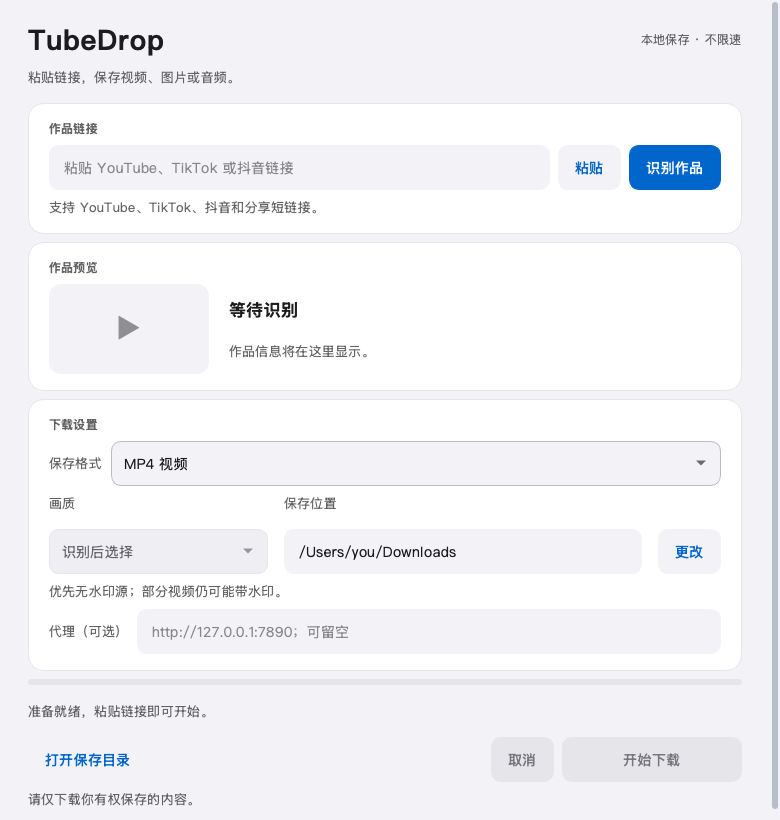
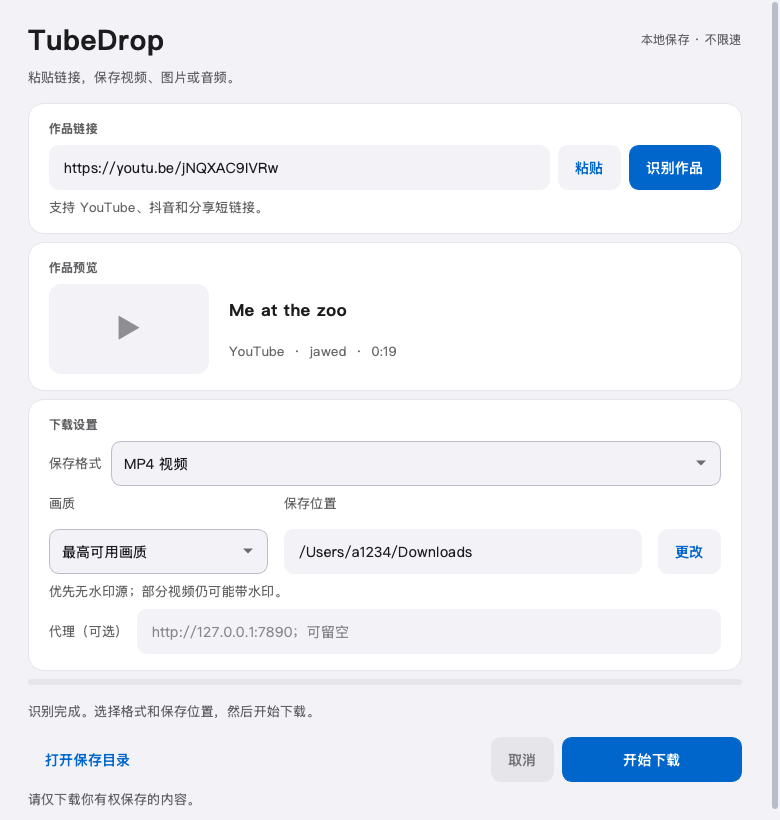
feat!: remove TikTok downloads and keep YouTube and Douyin

diff --git a/core.py b/core.py
@@ -9,16 +9,13 @@ from urllib.parse import parse_qs, urlsplit
 
 VIDEO_ID = re.compile(r'^[A-Za-z0-9_-]{11}$')
 HOSTS = {'youtube.com', 'www.youtube.com', 'm.youtube.com', 'music.youtube.com'}
-TIKTOK_HOSTS = {'tiktok.com', 'www.tiktok.com', 'm.tiktok.com'}
-TIKTOK_SHORT_HOSTS = {'vm.tiktok.com', 'vt.tiktok.com'}
-TIKTOK_VIDEO = re.compile(r'/@(?P<user>[A-Za-z0-9_.-]*)/video/(?P<id>[0-9]{10,25})')
 DOUYIN_HOSTS = {'douyin.com', 'www.douyin.com', 'iesdouyin.com', 'www.iesdouyin.com'}
 
 
 def normalize_url(raw: str) -> str:
     raw = raw.strip()
     if not raw or len(raw) > 4096 or any(ord(c) < 32 and c not in '\r\n\t' for c in raw):
-        raise ValueError('请粘贴有效的 YouTube、TikTok 或抖音作品链接。')
+        raise ValueError('请粘贴有效的 YouTube 或抖音作品链接。')
     if any(c.isspace() for c in raw):
         # 抖音复制的分享文案常带标题；只接受其中唯一的一条链接。
         links = re.findall(r'https?://[^\s<>"“”]+', raw)
@@ -49,16 +46,6 @@ def normalize_url(raw: str) -> str:
                 raise ValueError
             kind = 'note' if '/note/' in path else 'video'
             return f'https://www.douyin.com/{kind}/{video_id}'
-        if host in TIKTOK_SHORT_HOSTS and re.fullmatch(r'/[A-Za-z0-9_]{5,100}', path):
-            return f'https://{host}{path}/'
-        if host in TIKTOK_HOSTS:
-            if re.fullmatch(r'/t/[A-Za-z0-9_]{5,100}', path):
-                return f'https://www.tiktok.com{path}/'
-            if match := TIKTOK_VIDEO.fullmatch(path):
-                return f'https://www.tiktok.com/@{match["user"] or "_"}/video/{match["id"]}'
-            if match := re.fullmatch(r'/(?:share/video|embed)/([0-9]{10,25})', path):
-                return f'https://www.tiktok.com/@_/video/{match[1]}'
-            raise ValueError
         if host == 'youtu.be':
             video_id = path[1:]
         elif host in HOSTS:
@@ -74,7 +61,7 @@ def normalize_url(raw: str) -> str:
         if not VIDEO_ID.fullmatch(video_id):
             raise ValueError
     except ValueError:
-        raise ValueError('请使用 YouTube、TikTok 或抖音单个作品链接，支持分享短链接。') from None
+        raise ValueError('请使用 YouTube 或抖音单个作品链接，支持分享短链接。') from None
     # 仅传递视频 ID，去除播放列表、跳转参数和分享追踪信息。
     return f'https://www.youtube.com/watch?v={video_id}'
 
@@ -83,17 +70,11 @@ def platform_name(url: str) -> str:
     host = urlsplit(url).hostname
     if host in DOUYIN_HOSTS | {'v.douyin.com'}:
         return '抖音'
-    return 'TikTok' if host in TIKTOK_HOSTS | TIKTOK_SHORT_HOSTS else 'YouTube'
-
-
-def is_tiktok_short_url(url: str) -> bool:
-    parts = urlsplit(url)
-    return parts.hostname in TIKTOK_SHORT_HOSTS or (
-        parts.hostname in TIKTOK_HOSTS and parts.path.startswith('/t/'))
+    return 'YouTube'
 
 
 def is_share_short_url(url: str) -> bool:
-    return is_tiktok_short_url(url) or urlsplit(url).hostname == 'v.douyin.com'
+    return urlsplit(url).hostname == 'v.douyin.com'
 
 
 def thumbnail_url_allowed(url: str) -> bool:
@@ -103,8 +84,7 @@ def thumbnail_url_allowed(url: str) -> bool:
     host = parts.hostname or ''
     return host in {'i.ytimg.com', 'img.youtube.com'} or any(
         host == domain or host.endswith('.' + domain)
-        for domain in ('tiktokcdn.com', 'tiktokcdn-us.com', 'ibytedtos.com', 'byteoversea.com',
-                       'douyinpic.com', 'douyincdn.com', 'byteimg.com'))
+        for domain in ('ibytedtos.com', 'douyinpic.com', 'douyincdn.com', 'byteimg.com'))
 
 
 def available_heights(formats: list[dict]) -> list[int]:

diff --git a/tests/test_short_links.py b/tests/test_short_links.py
@@ -3,7 +3,7 @@ import pytest
 from core import thumbnail_url_allowed
 from worker import resolve_video_url
 
-VIDEO = 'https://www.tiktok.com/@creator/video/6748451240264420610'
+VIDEO = 'https://www.douyin.com/video/6961737553342991651'
 
 
 class Response:
@@ -19,16 +19,16 @@ class Response:
             raise RuntimeError('HTTP error')
 
 
-def test_short_link_resolves_to_tiktok_video():
-    responses = iter([Response(302, 'https://www.tiktok.com/t/ZTRC5xgJp/'), Response(302, VIDEO + '?tracking=1')])
-    assert resolve_video_url('https://vm.tiktok.com/ZM123Abcd/', fetch=lambda *_: next(responses)) == VIDEO
+def test_short_link_resolves_to_douyin_video():
+    responses = iter([Response(302, 'https://v.douyin.com/EFg5678/'), Response(302, VIDEO + '?tracking=1')])
+    assert resolve_video_url('https://v.douyin.com/ABc1234/', fetch=lambda *_: next(responses)) == VIDEO
 
 
 @pytest.mark.parametrize('redirect', [
     'https://evil.org/video/123', 'http://127.0.0.1/private',
     'https://youtube.com/watch?v=BaW_jenozKc',
-    'https://www.tiktok.com/@creator',
-    'https://www.tiktok.com.evil.org/@creator/video/6748451240264420610',
+    'https://www.douyin.com/user/creator',
+    'https://www.douyin.com.evil.org/video/6961737553342991651',
 ])
 def test_short_link_rejects_external_or_non_video_redirect(redirect):
     calls = []
@@ -36,17 +36,17 @@ def test_short_link_rejects_external_or_non_video_redirect(redirect):
         calls.append(url)
         return Response(302, redirect)
     with pytest.raises(ValueError):
-        resolve_video_url('https://vm.tiktok.com/ZM123Abcd/', fetch=fetch)
-    assert calls == ['https://vm.tiktok.com/ZM123Abcd/']
+        resolve_video_url('https://v.douyin.com/ABc1234/', fetch=fetch)
+    assert calls == ['https://v.douyin.com/ABc1234/']
 
 
 def test_short_link_loop_has_finite_attempts():
     calls = []
     def fetch(url):
         calls.append(url)
-        return Response(302, '/ZM123Abcd/')
+        return Response(302, '/ABc1234/')
     with pytest.raises(ValueError, match='跳转'):
-        resolve_video_url('https://vm.tiktok.com/ZM123Abcd/', fetch=fetch)
+        resolve_video_url('https://v.douyin.com/ABc1234/', fetch=fetch)
     assert len(calls) <= 5
 
 
@@ -57,12 +57,15 @@ def test_direct_link_does_not_make_extra_network_request():
 
 
 @pytest.mark.parametrize(('url', 'allowed'), [
-    ('https://p16-sign-va.tiktokcdn.com/image.jpeg?signature=1', True),
-    ('https://p16.tiktokcdn-us.com/image.jpeg', True),
+    ('https://p16-sign-va.tiktokcdn.com/image.jpeg?signature=1', False),
+    ('https://p16.tiktokcdn-us.com/image.jpeg', False),
     ('https://i.ytimg.com/vi/test/default.jpg', True),
+    ('https://p3.douyinpic.com/image.jpeg', True),
+    ('https://p3.ibytedtos.com/image.jpeg', True),
+    ('https://p16.byteoversea.com/image.jpeg', False),
     ('https://tiktokcdn.com.evil.org/image.jpeg', False),
     ('http://p16.tiktokcdn.com/image.jpeg', False),
     ('https://user:pass@p16.tiktokcdn.com/image.jpeg', False),
 ])
-def test_tiktok_thumbnail_domain_allowlist(url, allowed):
+def test_thumbnail_domain_allowlist(url, allowed):
     assert thumbnail_url_allowed(url) == allowed

diff --git a/worker.py b/worker.py
@@ -91,7 +91,7 @@ def video_summary(info: dict) -> dict:
     formats = info.get('formats') or []
     extractor = str(info.get('extractor_key') or '').lower()
     audio_formats = [f for f in formats if f.get('acodec') not in {None, 'none'}]
-    if extractor in {'douyin', 'tiktok'} and info.get('media_type') != 'images':
+    if extractor == 'douyin' and info.get('media_type') != 'images':
         audio_formats = [f for f in audio_formats if f.get('vcodec') not in {None, 'none'}]
     audio_quality = ('lossless' if any(lossless_codec(f.get('acodec')) for f in audio_formats)
                      else 'lossy' if audio_formats and all(str(f.get('acodec')).startswith(
@@ -107,7 +107,7 @@ def video_summary(info: dict) -> dict:
         'media_type': info.get('media_type', 'video'),
         'image_count': len(info.get('images') or []),
         'audio_quality': audio_quality,
-        'platform': '抖音' if extractor == 'douyin' else 'TikTok' if extractor.startswith('tiktok') else 'YouTube',
+        'platform': '抖音' if extractor == 'douyin' else 'YouTube',
     }
 
 
@@ -124,12 +124,12 @@ def original_video_formats(info: dict, platform: str) -> dict:
         marked = (candidate.get('has_watermark') or candidate.get('watermarked')
                   or re.search(r'\bwatermarked\b', note)
                   or '/playwm/' in urlsplit(candidate.get('url') or '').path)
-        # TikTok 下载专用流可能带水印；只保留播放流与其音轨。
-        download_copy = (platform in {'TikTok', '抖音'}
+        # 抖音下载专用流可能带水印；只保留播放流与其音轨。
+        download_copy = (platform == '抖音'
                          and str(candidate.get('format_id') or '').startswith('download'))
         if not marked and not download_copy:
             formats.append(candidate)
-    if not formats or (platform in {'TikTok', '抖音'} and not any(
+    if not formats or (platform == '抖音' and not any(
             f.get('vcodec') not in {None, 'none'} for f in formats)):
         raise NoOriginalVideo('未找到可用的原始播放源，已停止下载；不会自动改用已知带水印版本或背景音乐。')
     result = {**info, 'formats': formats}

diff --git a/tests/test_removed_platform.py b/tests/test_removed_platform.py
@@ -1,0 +1,53 @@
+import os
+
+import pytest
+
+from worker import resolve_video_url, run
+
+
+@pytest.mark.parametrize('url', [
+    'https://www.tiktok.com/@creator/video/6748451240264420610',
+    'https://vm.tiktok.com/ZM123Abcd/',
+    'https://vt.tiktok.com/ZSe4FqkKd/',
+])
+def test_removed_platform_is_rejected_before_resolving(url):
+    calls = []
+    def fetch(address):
+        calls.append(address)
+        raise RuntimeError('不应请求已移除的平台')
+    with pytest.raises(ValueError, match='YouTube.*抖音'):
+        resolve_video_url(url, fetch=fetch)
+    assert not calls
+
+
+@pytest.mark.parametrize('action', ['identify', 'download'])
+def test_worker_rejects_removed_platform_before_network_setup(monkeypatch, action):
+    events = []
+    setups = []
+    def options(*args):
+        setups.append(args)
+        raise RuntimeError('不应创建下载器')
+    monkeypatch.setattr('worker.base_options', options)
+    monkeypatch.setattr('worker.emit', lambda kind, **data: events.append({'type': kind, **data}))
+    # 直接调用 worker 时，测试进程保持原有进程组。
+    if os.name == 'posix':
+        monkeypatch.setattr(os, 'getpgrp', os.getpid)
+    else:
+        monkeypatch.setattr('winjob.assign_worker_job', lambda: None)
+    assert run([action, 'https://www.tiktok.com/@creator/video/6748451240264420610']) == 1
+    assert not setups
+    assert events[-1]['type'] == 'error'
+    assert 'YouTube' in events[-1]['message'] and '抖音' in events[-1]['message']
+
+
+def test_ui_rejects_removed_platform_without_starting_worker(window, monkeypatch):
+    starts = []
+    monkeypatch.setattr(window, 'start_worker', lambda *args: starts.append(args))
+    window.url_edit.setText('https://vm.tiktok.com/ZM123Abcd/')
+    window.auto_timer.stop()
+    window.auto_identify()
+    window.identify()
+    assert not starts
+    assert not window.is_busy()
+    assert not window.download_btn.isEnabled()
+    assert 'YouTube' in window.status.text() and '抖音' in window.status.text()

diff --git a/tests/test_watermark.py b/tests/test_watermark.py
@@ -28,7 +28,7 @@ def test_only_known_official_play_endpoint_is_rewritten(address):
     assert original_playback_url(address) == address
 
 
-@pytest.mark.parametrize('platform', ['YouTube', 'TikTok', '抖音'])
+@pytest.mark.parametrize('platform', ['YouTube', '抖音'])
 @pytest.mark.parametrize('marked', [
     video('wm', format_note='Download video, watermarked'),
     video('wm', has_watermark=True),
@@ -44,7 +44,7 @@ def test_known_watermark_formats_are_removed_on_every_platform(platform, marked)
     assert info['formats'] == [clean, marked]
 
 
-@pytest.mark.parametrize('platform', ['TikTok', '抖音'])
+@pytest.mark.parametrize('platform', ['抖音'])
 def test_no_playback_video_does_not_fall_back_to_watermark_or_music(platform):
     with pytest.raises(ValueError, match='原始播放源'):
         original_video_formats({'formats': [
@@ -59,7 +59,7 @@ def test_youtube_separate_video_and_audio_are_preserved():
 
 def test_watermark_free_note_is_not_mistaken_for_watermarked():
     formats = [video(format_note='watermark-free playback')]
-    assert original_video_formats({'formats': formats}, 'TikTok')['formats'] == formats
+    assert original_video_formats({'formats': formats}, '抖音')['formats'] == formats
 
 
 def test_worker_filters_before_selecting_resolution(monkeypatch):
@@ -71,6 +71,6 @@ def test_worker_filters_before_selecting_resolution(monkeypatch):
         return raw
     monkeypatch.setattr(yt_dlp.YoutubeDL, 'extract_info', extract)
     with yt_dlp.YoutubeDL({'quiet': True, 'format': 'best'}) as ydl:
-        info = extract_video_info(ydl, 'https://www.tiktok.com/@creator/video/7047596209028074758')
+        info = extract_video_info(ydl, 'https://www.douyin.com/video/6961737553342991651')
     assert info['format_id'] == 'play'
     assert [f['height'] for f in info['formats']] == [720]

diff --git a/tests/test_core.py b/tests/test_core.py
@@ -56,21 +56,20 @@ def test_network_error_is_actionable():
     assert '登录' in human_error('Sign in to confirm you’re not a bot')
 
 
-@pytest.mark.parametrize(('raw', 'expected'), [
-    ('https://www.tiktok.com/@creator/video/6748451240264420610?is_from_webapp=1',
-     'https://www.tiktok.com/@creator/video/6748451240264420610'),
-    ('tiktok.com/@creator.name/video/6748451240264420610',
-     'https://www.tiktok.com/@creator.name/video/6748451240264420610'),
-    ('https://www.tiktok.com/share/video/6748451240264420610/',
-     'https://www.tiktok.com/@_/video/6748451240264420610'),
-    ('https://www.tiktok.com/embed/6748451240264420610',
-     'https://www.tiktok.com/@_/video/6748451240264420610'),
-    ('https://vm.tiktok.com/ZM123Abcd/?share=1', 'https://vm.tiktok.com/ZM123Abcd/'),
-    ('https://vt.tiktok.com/ZSe4FqkKd/', 'https://vt.tiktok.com/ZSe4FqkKd/'),
-    ('https://www.tiktok.com/t/ZTRC5xgJp/', 'https://www.tiktok.com/t/ZTRC5xgJp/'),
+@pytest.mark.parametrize('raw', [
+    'https://www.tiktok.com/@creator/video/6748451240264420610?is_from_webapp=1',
+    'tiktok.com/@creator.name/video/6748451240264420610',
+    'https://m.tiktok.com/@creator/video/6748451240264420610',
+    'https://www.tiktok.com/share/video/6748451240264420610/',
+    'https://www.tiktok.com/embed/6748451240264420610',
+    'https://vm.tiktok.com/ZM123Abcd/?share=1',
+    'https://vt.tiktok.com/ZSe4FqkKd/',
+    'https://www.tiktok.com/t/ZTRC5xgJp/',
+    '分享作品 https://vm.tiktok.com/ZM123Abcd/ 复制打开',
 ])
-def test_normalize_tiktok_video_and_short_links(raw, expected):
-    assert normalize_url(raw) == expected
+def test_removed_tiktok_links_are_rejected(raw):
+    with pytest.raises(ValueError, match='YouTube.*抖音'):
+        normalize_url(raw)
 
 
 @pytest.mark.parametrize('url', [

diff --git a/ui.py b/ui.py
@@ -153,8 +153,8 @@ def build_window(window):
     link_card.addWidget(label('作品链接', 'section'))
     link_row = QHBoxLayout()
     window.url_edit = QLineEdit()
-    window.url_edit.setPlaceholderText('粘贴 YouTube、TikTok 或抖音链接')
-    window.url_edit.setAccessibleName('YouTube、TikTok 或抖音作品链接')
+    window.url_edit.setPlaceholderText('粘贴 YouTube 或抖音链接')
+    window.url_edit.setAccessibleName('YouTube 或抖音作品链接')
     window.url_edit.setClearButtonEnabled(True)
     window.paste_btn = QPushButton('粘贴')
     window.identify_btn = QPushButton('识别作品')
@@ -163,7 +163,7 @@ def build_window(window):
     link_row.addWidget(window.paste_btn)
     link_row.addWidget(window.identify_btn)
     link_card.addLayout(link_row)
-    link_card.addWidget(label('支持 YouTube、TikTok、抖音和分享短链接。', 'muted'))
+    link_card.addWidget(label('支持 YouTube、抖音和分享短链接。', 'muted'))
 
     preview = card(layout)
     preview.addWidget(label('作品预览', 'section'))

diff --git a/tests/test_ui.py b/tests/test_ui.py
@@ -212,15 +212,15 @@ def test_cards_do_not_clip_controls_at_default_window_size(window, qt_app):
     assert all(frame.height() >= frame.minimumSizeHint().height() for frame in cards)
 
 
-def test_tiktok_metadata_uses_resolved_link_for_download(window):
-    url = 'https://www.tiktok.com/@creator/video/6748451240264420610'
+def test_douyin_metadata_uses_resolved_link_for_download(window):
+    url = 'https://www.douyin.com/video/6961737553342991651'
     window.handle_event({'type': 'metadata', 'video': {
-        'title': 'TikTok 视频', 'channel': '作者', 'duration': 13,
-        'heights': [720], 'thumbnail': None, 'platform': 'TikTok', 'url': url,
+        'title': '抖音视频', 'channel': '作者', 'duration': 13,
+        'heights': [720], 'thumbnail': None, 'platform': '抖音', 'url': url,
     }})
     window.set_busy(False)
     assert window.identified_url == url
-    assert 'TikTok' in window.video_detail.text()
+    assert '抖音' in window.video_detail.text()
     assert window.download_btn.isEnabled()
 
 

diff --git a/tests/test_worker.py b/tests/test_worker.py
@@ -32,7 +32,7 @@ def test_download_never_overwrites_existing_file(tmp_path):
     assert options['format'].endswith('/b[height<=720]')
 
 
-@pytest.mark.parametrize('platform', ['YouTube', 'TikTok', '抖音'])
+@pytest.mark.parametrize('platform', ['YouTube', '抖音'])
 def test_mp3_options_extract_audio_without_video_remux(tmp_path, platform):
     options = download_options(tmp_path, 720, 'mp3', platform)
     assert 'height' not in options['format']

diff --git a/app.py b/app.py
@@ -25,7 +25,7 @@ from version import VERSION
 class Window(QMainWindow):
     def __init__(self, settings=None):
         super().__init__()
-        self.setWindowTitle('TubeDrop · YouTube / TikTok / 抖音下载')
+        self.setWindowTitle('TubeDrop · YouTube / 抖音下载')
         self.resize(780, 820)
         self.setMinimumSize(680, 600)
         self.settings = settings if settings is not None else QSettings('TubeDrop', 'TubeDrop')

diff --git a/tests/test_flac.py b/tests/test_flac.py
@@ -8,7 +8,7 @@ def audio(codec, name, video=False):
             'ext': 'mkv', 'acodec': codec, 'vcodec': 'h264' if video else 'none'}
 
 
-@pytest.mark.parametrize('platform', ['YouTube', 'TikTok', '抖音'])
+@pytest.mark.parametrize('platform', ['YouTube', '抖音'])
 @pytest.mark.parametrize('codec', ['flac', 'alac', 'pcm_s24le'])
 def test_flac_prefers_lossless_original_track(tmp_path, platform, codec):
     combined = platform != 'YouTube'

diff --git a/tests/test_download_integration.py b/tests/test_download_integration.py
@@ -16,7 +16,6 @@ from worker import run
 
 @pytest.mark.parametrize(('url', 'video_id', 'extractor'), [
     ('https://youtu.be/BaW_jenozKc', 'BaW_jenozKc', 'Youtube'),
-    ('https://www.tiktok.com/@creator/video/6748451240264420610', '6748451240264420610', 'TikTok'),
     ('https://www.douyin.com/video/6961737553342991651', '6961737553342991651', 'Douyin'),
 ])
 @pytest.mark.parametrize(('output_format', 'source_codec', 'source_ext'), [
